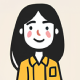
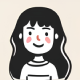
修复头像图片后台替换，浏览器因缓存原因无法更新问题

diff --git a/src/pages/user_profile.py b/src/pages/user_profile.py
@@ -7,8 +7,14 @@ from nicegui import app, ui
 from nicegui.events import GenericEventArguments, KeyEventArguments, MouseEventArguments, UploadEventArguments
 from PIL import Image  # 导入 Pillow
 
-from ..config import AVATAR_DIR, AVATAR_MAX_SIZE, AVATAR_URL_DIR, IMG_DIR, PRESET_AVATARS  # 用于获取 IMG_DIR
-from ..utils import logout
+from ..config import (  # 用于获取 IMG_DIR
+    AVATAR_DIR,
+    AVATAR_MAX_SIZE,
+    AVATAR_URL_DIR,
+    IMG_DIR,
+    PRESET_AVATARS,
+)
+from ..utils import get_cache_busted_path, logout
 
 # 步骤 1: 从我们重构的 login.py 中导入可重用的函数
 from .login import create_password_dialog
@@ -20,11 +26,6 @@ def user_profile_page():
     if not (current_user := app.storage.user.get("current_user")):
         ui.navigate.to("/login")
         return
-
-    # 2. 从全局存储中获取用户当前的头像设置
-    # (在 main.py 中定义 "user_preferences")
-    user_prefs = app.storage.general.get("user_preferences", {}).get(current_user, {})
-    current_avatar_path = user_prefs.get("avatar", PRESET_AVATARS[0])  # 默认为第一个
 
     def pick_file(uploader):
         # 在上传新文件前，先清空upload列表，否则后续删除文件后，不能在重新插入
@@ -39,8 +40,10 @@ def user_profile_page():
         # 更新全局存储
         app.storage.general["user_preferences"][current_user]["avatar"] = avatar_path
         # 更新页面上显示的两个头像
-        current_avatar_display.set_source(avatar_path)
-        header_avatar_display.set_source(avatar_path)  # <-- 新增：更新顶部栏头像
+        # 步骤 3: 在 *更新显示* 时，应用缓存清除
+        display_path = get_cache_busted_path(avatar_path)
+        current_avatar_display.set_source(display_path)
+        header_avatar_display.set_source(display_path)
 
     # --- 新增：处理上传的函数 ---
     async def handle_upload(e: UploadEventArguments):
@@ -81,12 +84,19 @@ def user_profile_page():
             print(f"头像处理失败: {ex}")
             ui.notify(f"图片处理失败：{ex}", type="negative")
 
+    # 2. 从全局存储中获取用户当前的头像设置
+    # (在 main.py 中定义 "user_preferences")
+    user_prefs = app.storage.general.get("user_preferences", {}).get(current_user, {})
+    current_avatar_path = user_prefs.get("avatar", PRESET_AVATARS[0])  # 默认为第一个
+    # 在 *显示* 前，应用缓存清除
+    current_display_path = get_cache_busted_path(current_avatar_path)
+
     # --- 页面 UI 布局 ---
     with ui.header(elevated=True).classes("flex justify-between items-center bg-blue-500 h-12 px-4"):
         ui.image(f"{IMG_DIR}/Rayfine.png").classes("absolute w-20")
         ui.label("用户信息管理").classes("text-white text-lg absolute left-1/2 transform -translate-x-1/2")
         with ui.avatar(size="lg").classes("cursor-pointer ml-auto -mt-3"):  # 右侧对齐
-            header_avatar_display = ui.image(current_avatar_path)
+            header_avatar_display = ui.image(current_display_path)
             with ui.menu().props("auto-close flex-nowrap") as menu:
                 ui.menu_item(f"你好, {app.storage.user.get('current_user', '匿名')}").style("white-space: nowrap;")
                 ui.separator().props("size=1px")
@@ -100,7 +110,7 @@ def user_profile_page():
         ui.label("当前头像").classes("text-xl font-semibold")
 
         # ui.image 会自动处理本地文件路径的伺服
-        current_avatar_display = ui.image(current_avatar_path).classes(
+        current_avatar_display = ui.image(current_display_path).classes(
             "w-16 h-16 rounded-full self-center ring-4 ring-blue-500"
         )
 
@@ -123,7 +133,9 @@ def user_profile_page():
             ui.label("或选择以下预设头像：").classes("text-gray-500")
         with ui.row().classes("gap-2 flex-wrap justify-center"):
             for avatar_path in PRESET_AVATARS:
-                ui.image(avatar_path).classes(
+                # 步骤 6: 在循环预设头像时应用缓存清除
+                display_path = get_cache_busted_path(avatar_path)
+                ui.image(display_path).classes(
                     "w-16 h-16 rounded-full cursor-pointer hover:ring-4 hover:ring-blue-300"
                 ).on("click", lambda _, path=avatar_path: set_avatar(path))  # 关键：使用 lambda 捕获正确的 path
 

diff --git a/src/config.py b/src/config.py
@@ -16,24 +16,7 @@ SUBMIT_FILES_DIR = Path(f"{BASE_DIR}/files")
 REQ_DIR = f"{BASE_DIR}/req"
 OVER_DIR = f"{BASE_DIR}/over"
 AVATAR_DIR = f"{UPLOADS_DIR}/avatars"
-# 默认头像路径
-PRESET_AVATARS = [
-    f"{IMG_DIR}/avatars/avatar1.png",
-    f"{IMG_DIR}/avatars/avatar2.png",
-    f"{IMG_DIR}/avatars/avatar3.png",
-    f"{IMG_DIR}/avatars/avatar4.png",
-    f"{IMG_DIR}/avatars/avatar5.png",
-    f"{IMG_DIR}/avatars/avatar6.png",
-    f"{IMG_DIR}/avatars/avatar7.png",
-    f"{IMG_DIR}/avatars/avatar8.png",
-    f"{IMG_DIR}/avatars/avatar9.png",
-    f"{IMG_DIR}/avatars/avatar10.png",
-    f"{IMG_DIR}/avatars/avatar11.png",
-    f"{IMG_DIR}/avatars/avatar12.png",
-    f"{IMG_DIR}/avatars/avatar13.png",
-    f"{IMG_DIR}/avatars/avatar14.png",
-    f"{IMG_DIR}/avatars/avatar15.png",
-]
+
 os.makedirs(IMG_DIR, exist_ok=True)
 os.makedirs(UPLOADS_DIR, exist_ok=True)
 os.makedirs(SUBMIT_FILES_DIR, exist_ok=True)
@@ -45,9 +28,29 @@ os.makedirs(AVATAR_DIR, exist_ok=True)
 UPLOAD_URL_DIR = "/uploads"
 FILES_URL_DIR = "/files"
 AVATAR_URL_DIR = "/uploads/avatars"
+IMG_URL_DIR = "/img"
 
+# 默认头像路径
+PRESET_AVATARS = [
+    f"{IMG_URL_DIR}/avatars/avatar1.png",
+    f"{IMG_URL_DIR}/avatars/avatar2.png",
+    f"{IMG_URL_DIR}/avatars/avatar3.png",
+    f"{IMG_URL_DIR}/avatars/avatar4.png",
+    f"{IMG_URL_DIR}/avatars/avatar5.png",
+    f"{IMG_URL_DIR}/avatars/avatar6.png",
+    f"{IMG_URL_DIR}/avatars/avatar7.png",
+    f"{IMG_URL_DIR}/avatars/avatar8.png",
+    f"{IMG_URL_DIR}/avatars/avatar9.png",
+    f"{IMG_URL_DIR}/avatars/avatar10.png",
+    f"{IMG_URL_DIR}/avatars/avatar11.png",
+    f"{IMG_URL_DIR}/avatars/avatar12.png",
+    f"{IMG_URL_DIR}/avatars/avatar13.png",
+    f"{IMG_URL_DIR}/avatars/avatar14.png",
+    f"{IMG_URL_DIR}/avatars/avatar15.png",
+]
 # 定义头像处理后的最大尺寸
 AVATAR_MAX_SIZE = (190, 190)
 # ALLOWED_EXTENSIONS = {"png", "jpg", "jpeg", "gif", "pdf"}
 # MAX_FILE_SIZE = 20 * 1024 * 1024
-app.add_static_files("/uploads", UPLOADS_DIR)
+app.add_static_files(UPLOAD_URL_DIR, UPLOADS_DIR)
+app.add_static_files(IMG_URL_DIR, IMG_DIR)

diff --git a/src/utils.py b/src/utils.py
@@ -7,6 +7,7 @@ import json
 import os
 import re
 from datetime import datetime
+from pathlib import Path
 
 from nicegui import app, ui
 from nicegui.events import KeyEventArguments
@@ -14,7 +15,45 @@ from nicegui.events import KeyEventArguments
 from . import db_storage
 
 # import config
-from .config import BASE_DIR, OVER_DIR, REQ_DIR
+from .config import AVATAR_DIR, AVATAR_URL_DIR, BASE_DIR, IMG_DIR, IMG_URL_DIR, OVER_DIR, REQ_DIR
+
+
+# 新增一个辅助函数，用于头像的“缓存清除”
+def get_cache_busted_path(web_path: str) -> str:
+    """
+    根据文件的修改时间，为 web 路径添加 ?v=mtime 参数以清除缓存。
+    可以智能处理“预设头像”(IMG_DIR) 和“自定义头像”(AVATAR_DIR)。
+    """
+    if not web_path:
+        return web_path
+
+    # 移除可能存在的旧查询参数
+    clean_web_path = web_path.split("?")[0]
+
+    filesystem_path = None
+
+    try:
+        # 1. 检查是否是“自定义头像”
+        if clean_web_path.startswith(AVATAR_URL_DIR):
+            relative_path = clean_web_path[len(AVATAR_URL_DIR) :].lstrip("/")
+            filesystem_path = Path(AVATAR_DIR) / relative_path
+
+        # 2. 检查是否是“预设头像” (或其他 IMG 目录下的图片)
+        elif clean_web_path.startswith(IMG_URL_DIR):
+            relative_path = clean_web_path[len(IMG_URL_DIR) :].lstrip("/")
+            filesystem_path = Path(IMG_DIR) / relative_path
+
+        # 3. 如果路径都匹配不上，或者文件不存在
+        if filesystem_path is None or not filesystem_path.exists():
+            return web_path  # 返回原始路径
+
+        # 4. 获取文件修改时间并生成新 URL
+        mtime = filesystem_path.stat().st_mtime
+        return f"{clean_web_path}?v={mtime}"
+
+    except Exception as e:
+        print(f"Error generating cache-busted path for {web_path}: {e}")
+        return web_path  # 出错时返回原始路径
 
 
 # 更新所有用户密码与角色数据

diff --git a/src/pages/requirement.py b/src/pages/requirement.py
@@ -22,6 +22,7 @@ from ..utils import (
     copy_overview_data,
     find_files_with_prefix_and_version,
     find_key_position,
+    get_cache_busted_path,
     get_max_numeric_key,
     handle_key,
     logout,
@@ -78,6 +79,8 @@ async def requirement_page(type="", json_path="", project_name=""):
     # (在 main.py 中定义 "user_preferences")
     user_prefs = app.storage.general.get("user_preferences", {}).get(current_user, {})
     current_avatar_path = user_prefs.get("avatar", PRESET_AVATARS[0])  # 默认为第一个
+    # 在 *显示* 前，应用缓存清除
+    current_display_path = get_cache_busted_path(current_avatar_path)
     # 存储用户层级需求相关数据的变量初始化
     # 用于记录键盘按键状态
     app.storage.client.setdefault("key_state", {})
@@ -1764,7 +1767,7 @@ async def requirement_page(type="", json_path="", project_name=""):
             ).props("accept=.json")
             upload.set_visibility(False)  # 隐藏上传组件
             with ui.avatar(size="lg").classes("cursor-pointer ml-auto -mt-3"):  # 右侧对齐
-                ui.image(current_avatar_path)
+                ui.image(current_display_path)
                 with ui.menu().props("auto-close") as menu:
                     ui.menu_item(f"你好, {app.storage.user.get('current_user', '匿名')}").style("white-space: nowrap;")
                     ui.separator().props("size=1px")
@@ -2059,7 +2062,7 @@ async def requirement_page(type="", json_path="", project_name=""):
             )  # 绝对定位居中
 
             with ui.avatar(size="lg").classes("cursor-pointer ml-auto -mt-3"):  # 右侧对齐
-                ui.image(current_avatar_path)
+                ui.image(current_display_path)
                 with ui.menu().props("auto-close") as menu:
                     ui.menu_item(f"你好, {app.storage.user.get('current_user', '匿名')}").style("white-space: nowrap;")
                     ui.separator().props("size=1px")

diff --git a/src/pages/project_table.py b/src/pages/project_table.py
@@ -6,7 +6,7 @@ from nicegui import app, ui
 
 from .. import db_storage  # 导入我们创建的模块
 from ..config import IMG_DIR, PRESET_AVATARS, REQ_DIR
-from ..utils import find_files_with_prefix_and_version, get_overviow_page, logout
+from ..utils import find_files_with_prefix_and_version, get_cache_busted_path, get_overviow_page, logout
 
 
 @ui.page("/project_table")
@@ -127,6 +127,8 @@ def project_table_page():
     # (在 main.py 中定义 "user_preferences")
     user_prefs = app.storage.general.get("user_preferences", {}).get(current_user, {})
     current_avatar_path = user_prefs.get("avatar", PRESET_AVATARS[0])  # 默认为第一个
+    # 在 *显示* 前，应用缓存清除
+    current_display_path = get_cache_busted_path(current_avatar_path)
 
     # 按照项目名里“-”符号切分为大类和小类，并输出二层结构的类别字典
     def get_select_dic(select_li):
@@ -525,7 +527,7 @@ def project_table_page():
             "text-white text-lg absolute left-1/2 transform -translate-x-1/2"
         )  # 绝对定位居中
         with ui.avatar(size="lg").classes("cursor-pointer ml-auto -mt-3"):  # 右侧对齐
-            ui.image(current_avatar_path)
+            ui.image(current_display_path)
             with ui.menu().props("auto-close") as menu:
                 ui.menu_item(f"你好, {app.storage.user.get('current_user', '匿名')}").style("white-space: nowrap;")
                 ui.separator().props("size=1px")

diff --git a/src/pages/information.py b/src/pages/information.py
@@ -7,7 +7,7 @@ from nicegui import app, ui
 
 from .. import db_storage
 from ..config import BASE_DIR, IMG_DIR, OVER_DIR, PRESET_AVATARS, REQ_DIR
-from ..utils import delete_file, get_overviow_page, logout
+from ..utils import delete_file, get_cache_busted_path, get_overviow_page, logout
 
 
 @ui.page("/information")
@@ -31,6 +31,8 @@ def information_page():
     # (在 main.py 中定义 "user_preferences")
     user_prefs = app.storage.general.get("user_preferences", {}).get(current_user, {})
     current_avatar_path = user_prefs.get("avatar", PRESET_AVATARS[0])  # 默认为第一个
+    # 在 *显示* 前，应用缓存清除
+    current_display_path = get_cache_busted_path(current_avatar_path)
 
     async def set_overview_active_state(project_name, ver):
         req_ver = int(float(ver))
@@ -177,7 +179,7 @@ def information_page():
             "text-white text-lg absolute left-1/2 transform -translate-x-1/2"
         )  # 绝对定位居中
         with ui.avatar(size="lg").classes("cursor-pointer ml-auto -mt-3"):  # 右侧对齐
-            ui.image(current_avatar_path)
+            ui.image(current_display_path)
             with ui.menu().props("auto-close") as menu:
                 ui.menu_item(f"你好, {app.storage.user.get('current_user', '匿名')}").style("white-space: nowrap;")
                 ui.separator().props("size=1px")

diff --git a/src/pages/manage.py b/src/pages/manage.py
@@ -3,6 +3,7 @@ from nicegui import app, ui
 
 from ..config import IMG_DIR, PRESET_AVATARS
 from ..utils import (
+    get_cache_busted_path,
     logout,
     project_overview_config_update,
     project_summary_update,
@@ -23,11 +24,13 @@ def manage_page():
     # (在 main.py 中定义 "user_preferences")
     user_prefs = app.storage.general.get("user_preferences", {}).get(current_user, {})
     current_avatar_path = user_prefs.get("avatar", PRESET_AVATARS[0])  # 默认为第一个
+    # 在 *显示* 前，应用缓存清除
+    current_display_path = get_cache_busted_path(current_avatar_path)
     with ui.header(elevated=True).classes("flex justify-between items-center bg-blue-500 h-12 px-4"):
         ui.image(f"{IMG_DIR}/Rayfine.png").classes("absolute w-20")
         ui.label("系统管理员界面").classes("text-white text-lg absolute left-1/2 transform -translate-x-1/2")
         with ui.avatar(size="lg").classes("cursor-pointer ml-auto -mt-3"):  # 右侧对齐
-            ui.image(current_avatar_path)
+            ui.image(current_display_path)
             with ui.menu().props("auto-close") as menu:
                 ui.menu_item(f"你好, {app.storage.user.get('current_user', '匿名')}").style("white-space: nowrap;")
                 ui.separator().props("size=1px")

diff --git a/src/pages/main_dashboard.py b/src/pages/main_dashboard.py
@@ -2,7 +2,7 @@
 from nicegui import app, ui
 
 from ..config import IMG_DIR, PRESET_AVATARS
-from ..utils import logout
+from ..utils import get_cache_busted_path, logout
 
 
 @ui.page("/main")
@@ -18,6 +18,8 @@ def main_page():
     # (在 main.py 中定义 "user_preferences")
     user_prefs = app.storage.general.get("user_preferences", {}).get(current_user, {})
     current_avatar_path = user_prefs.get("avatar", PRESET_AVATARS[0])  # 默认为第一个
+    # 在 *显示* 前，应用缓存清除
+    current_display_path = get_cache_busted_path(current_avatar_path)
     # 定义导航项目
     # 格式：(图标, 标题, 描述, 目标路径)
     menu_items = [
@@ -32,7 +34,7 @@ def main_page():
             "text-white text-lg absolute left-1/2 transform -translate-x-1/2"
         )  # 绝对定位居中
         with ui.avatar(size="lg").classes("cursor-pointer ml-auto -mt-3"):  # 右侧对齐
-            ui.image(current_avatar_path)
+            ui.image(current_display_path)
             with ui.menu().props("auto-close") as menu:
                 ui.menu_item(f"你好, {app.storage.user.get('current_user', '匿名')}").style("white-space: nowrap;")
                 ui.menu_item("用户信息", on_click=lambda: ui.navigate.to("/profile"))
